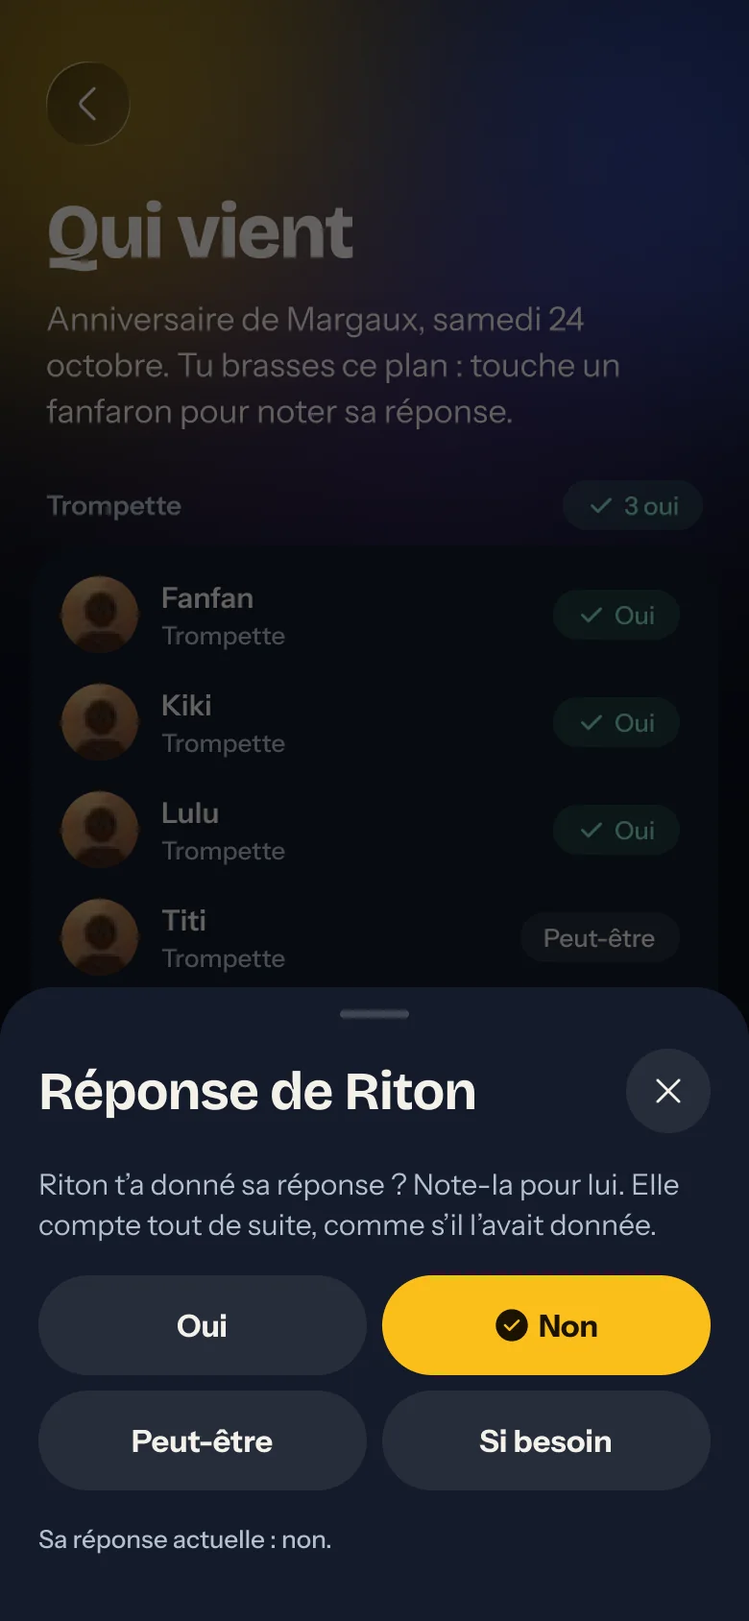
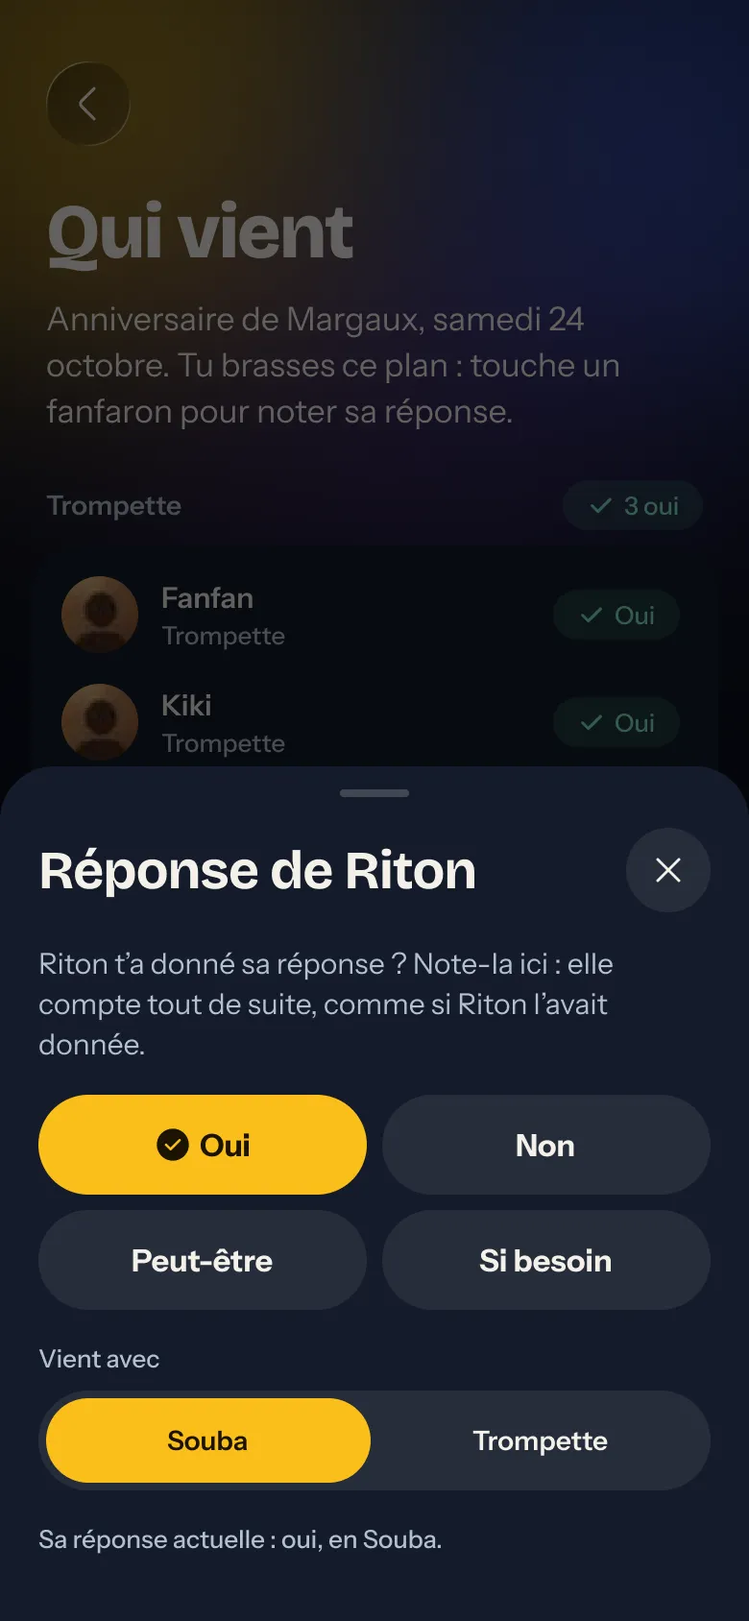
1.1.0: only a current member answers for another; the owner's wording; the guide and its pictures
- "Peut répondre pour moi" designates a current member only (ACTIVE or
  POWER_MEMBER), in PUT /api/me/proxy and in the import, as the profile
  offers (owner, 2026-11-08). Members v1.35.
- proxyMemberEmail in the full export is written in the model
  (members.md, export-import.md v1.5), with a test of the round trip and
  of the refusals.
- Status labels "Invité.e", "Actif.ve", "Parti.e"; the onboarding lead
  "ces infos ne sont visibles qu'après connexion".
- Changelog 1.1.0: fixes internal to the version removed, the Live mode
  as one change, the owner's wording; no-break spaces in French.
- Guide: the Live mode as redesigned; new pictures exported from Figma
  (Live, tempo, reading settings, too old a device, who comes with the
  power members folded, answering for someone, the card of the member
  who designated me, the profile).

Tests: npm test, 1214 passed, 3 timeouts of songs.spec (MP3, Clip,
Live repeat) that pass when run again; then api transfer and members,
android manage and onboarding.

Changed region(s): [[0.0, 0.4621, 1.0, 0.8934], [0.0615, 0.8318, 0.5846, 0.955]]

diff --git a/docs/guide/index.html b/docs/guide/index.html
@@ -80,7 +80,7 @@
           <div class="cell"><b>MIDI</b><span>Vue des pistes, qu'on peut masquer. On peut changer le tempo et boucler sur des mesures ou des repères.</span></div>
           <div class="cell"><b>PDF</b><span>La partition de ton instru s'affiche par défaut mais tu peux voir les autres. Tu peux les afficher en plein écran.</span></div>
           <div class="cell"><b>Clip</b><span>La version originale, depuis YouTube.</span></div>
-          <div class="cell"><b>Live</b><span>Lecture de partition en mode "karaoke" qui défile. Tu peux indiquer le tempo en tapant, et choisir la mesure de départ, ou lire avec le MIDI.</span></div>
+          <div class="cell"><b>Live</b><span>Ta partition défile en mode "karaoké". Le bouton de gauche règle le tempo, avec − et + ou en le tapant ; tu choisis aussi la mesure de départ. « Jouer avec le MIDI » lance le MIDI, et une tête de lecture suit la mesure jouée. Les réglages : le défilement (continu, saut rapide ou lent), la taille de la partition, un métronome visuel, et les contrôles masqués pendant la lecture. En paysage, la partition défile sur une seule ligne.</span></div>
         </div>
         <ul class="points">
           <li><span class="ico">•</span><div><b>Chercher et filtrer</b><span>Par nom, titre original ou interprète ; en liste ou grille. Les anciens morceaux ou les candidats sont visibles via un filtre.</span></div></li>
@@ -94,7 +94,10 @@
         <div class="strip">
           <figure><div class="mini"><div class="screen"><img src="img/song-midi.webp" alt="Le mode MIDI : une piste par instrument" width="780" height="1688" loading="lazy"></div></div><figcaption>MIDI : une piste par instrument, tempo et boucle</figcaption></figure>
           <figure><div class="mini"><div class="screen"><img src="img/song-pdf.webp" alt="Le mode PDF : ta partition" width="780" height="1688" loading="lazy"></div></div><figcaption>PDF : ta partition, les autres au choix</figcaption></figure>
-          <figure><div class="mini"><div class="screen"><img src="img/song-live.webp" alt="Le mode live : la partition défile, mesure et tempo en bas" width="780" height="1688" loading="lazy"></div></div><figcaption>Live : ta partie défile pendant qu'on joue</figcaption></figure>
+          <figure><div class="mini"><div class="screen"><img src="img/song-live.webp" alt="Le mode live prêt à démarrer : la mesure de départ, « Jouer avec le MIDI », le tempo, Lecture et Réglages" width="780" height="1688" loading="lazy"></div></div><figcaption>Live : ta partie défile pendant qu'on joue</figcaption></figure>
+          <figure><div class="mini"><div class="screen"><img src="img/song-live-tempo.webp" alt="Le volet du tempo : le régler avec − et +, ou le taper" width="780" height="1688" loading="lazy"></div></div><figcaption>Live : le tempo, réglé ou tapé</figcaption></figure>
+          <figure><div class="mini"><div class="screen"><img src="img/song-live-settings.webp" alt="Les réglages de lecture du mode live : défilement, taille, métronome, contrôles, pistes du MIDI" width="780" height="1688" loading="lazy"></div></div><figcaption>Live : les réglages de lecture</figcaption></figure>
+          <figure><div class="mini"><div class="screen"><img src="img/song-too-old.webp" alt="Sur un appareil trop ancien, le mode PDF propose de télécharger la partition" width="780" height="1688" loading="lazy"></div></div><figcaption>Un appareil ancien : la partition se télécharge</figcaption></figure>
         </div>
       </div>
     </section>
@@ -126,7 +129,8 @@
         </ul>
         <div class="strip">
           <figure><div class="mini"><div class="screen"><img src="img/gig-several-days.webp" alt="Un plan sur trois jours, avec ses présences" width="780" height="1688" loading="lazy"></div></div><figcaption>Un plan sur plusieurs jours : une réponse par présence</figcaption></figure>
-          <figure><div class="mini"><div class="screen"><img src="img/gig-who-comes.webp" alt="Qui vient, pupitre par pupitre" width="780" height="1688" loading="lazy"></div></div><figcaption>Qui vient, pupitre par pupitre</figcaption></figure>
+          <figure><div class="mini"><div class="screen"><img src="img/gig-who-comes.webp" alt="Qui vient, pupitre par pupitre, les power members sans réponse repliés à la fin" width="780" height="1688" loading="lazy"></div></div><figcaption>Qui vient, pupitre par pupitre</figcaption></figure>
+          <figure><div class="mini"><div class="screen"><img src="img/gig-proxy-card.webp" alt="Un plan avec la carte « Réponse de Léa » sous « Ta réponse »" width="780" height="1688" loading="lazy"></div></div><figcaption>Répondre pour qui t'a désigné</figcaption></figure>
         </div>
       </div>
     </section>
@@ -185,6 +189,7 @@
           <figure><div class="mini"><div class="screen"><img src="img/settings-notifications.webp" alt="Les notifications, par type, avec le canal : notification ou e-mail" width="780" height="1688" loading="lazy"></div></div><figcaption>Notifications : par type, notification ou e-mail</figcaption></figure>
           <figure><div class="mini"><div class="screen"><img src="img/settings-calendar.webp" alt="Le calendrier synchronisé" width="780" height="1688" loading="lazy"></div></div><figcaption>Calendrier : tes plans dans ton agenda</figcaption></figure>
           <figure><div class="mini"><div class="screen"><img src="img/settings-appearance.webp" alt="L'apparence : clair ou sombre, couleur d'accent" width="780" height="1688" loading="lazy"></div></div><figcaption>Apparence : clair ou sombre, dix couleurs</figcaption></figure>
+          <figure><div class="mini"><div class="screen"><img src="img/settings-profile-proxy.webp" alt="Mon profil : instrument secondaire et « Peut répondre pour moi »" width="780" height="1688" loading="lazy"></div></div><figcaption>Profil : instrument secondaire, qui répond pour toi</figcaption></figure>
         </div>
       </div>
     </section>

diff --git a/tests/api/transfer.spec.ts b/tests/api/transfer.spec.ts
@@ -646,3 +646,75 @@ test.describe('the checks added after the review', () => {
     ]);
   });
 });
+
+// 1.1.0 (model/export-import.md v1.5): who may answer for a member travels as
+// the email of the member designated, a current member other than oneself.
+test.describe('"Peut répondre pour moi" in an export', () => {
+  test('travels as proxyMemberEmail and comes back; an invited member, oneself or a stranger is refused', async ({
+    playwright,
+  }) => {
+    sql(
+      "UPDATE member SET proxyMemberId = (SELECT id FROM (SELECT id FROM member WHERE nickname = 'Momo') AS m) WHERE nickname = 'Zaza'",
+    );
+    const desk = await jibe(playwright);
+    const exported = readZip(
+      await (
+        await desk.post('/api/transfer/export', {
+          data: { password: admin.password, parts: ['settings', 'members'] },
+        })
+      ).body(),
+    );
+    const data = JSON.parse(exported.get('members/data.json')?.toString() ?? '{}');
+    const of = (nickname: string) =>
+      data.member.find((one: { nickname: string }) => one.nickname === nickname);
+    expect(of('Zaza').proxyMemberEmail).toBe(email('Momo'));
+    expect(of('Momo').proxyMemberEmail ?? null).toBeNull();
+
+    // Loaded again after it was emptied: the link comes back.
+    sql('UPDATE member SET proxyMemberId = NULL');
+    const name = await upload(desk, makeZip(Object.fromEntries(exported)), 'export.zip');
+    expect((await load(desk, name, ['settings', 'members'])).status()).toBe(200);
+    expect(
+      sql(
+        "SELECT p.nickname FROM member m JOIN member p ON p.id = m.proxyMemberId WHERE m.nickname = 'Zaza'",
+      ),
+    ).toBe('Momo');
+
+    const refusedWith = async (
+      change: (members: Record<string, unknown>[]) => void,
+      file: string,
+    ) => {
+      const files = new Map(exported);
+      const copy = structuredClone(data);
+      change(copy.member);
+      files.set('members/data.json', jsonOf(copy));
+      const fresh = await jibe(playwright);
+      return (await read(fresh, await upload(fresh, makeZip(Object.fromEntries(files)), file)))
+        .problems;
+    };
+    const zazaIn = (members: Record<string, unknown>[]) =>
+      members.find((one) => one.nickname === 'Zaza') as Record<string, unknown>;
+    const momoIn = (members: Record<string, unknown>[]) =>
+      members.find((one) => one.nickname === 'Momo') as Record<string, unknown>;
+
+    const invited = await refusedWith((members) => {
+      momoIn(members).status = 'INVITED';
+      delete momoIn(members).passwordHash;
+    }, 'invited.zip');
+    const oneself = await refusedWith((members) => {
+      zazaIn(members).proxyMemberEmail = email('Zaza');
+    }, 'oneself.zip');
+    const stranger = await refusedWith((members) => {
+      zazaIn(members).proxyMemberEmail = 'personne@example.org';
+    }, 'stranger.zip');
+    for (const [problems, value] of [
+      [invited, email('Momo')],
+      [oneself, email('Zaza')],
+      [stranger, 'personne@example.org'],
+    ] as const) {
+      expect(problems).toEqual([
+        expect.objectContaining({ column: 'proxyMemberEmail', error: 'unknownMember', value }),
+      ]);
+    }
+  });
+});

diff --git a/docs/guide/managers.html b/docs/guide/managers.html
@@ -58,7 +58,7 @@
         <p class="intro">Inviter, suivre les statuts, gérer les départs. Depuis Réglages › Gérer les fanfarons.</p>
         <ul class="points">
           <li><span class="ico">1</span><div><b>Inviter</b><span>Remplis ce que tu sais : surnom, prénom, instrument, e-mail. L'app envoie l'invitation par e-mail, et te donne le lien à copier au cas où. Il marche une fois, 7 jours.</span></div></li>
-          <li><span class="ico">2</span><div><b>Les statuts</b><span>Invité · Actif · Power member (pas de rappels) · Parti · Invitation expirée.</span></div></li>
+          <li><span class="ico">2</span><div><b>Les statuts</b><span>Invité.e · Actif.ve · Power member (pas de rappels) · Parti.e · Invitation expirée.</span></div></li>
           <li><span class="ico">3</span><div><b>Mot de passe perdu</b><span>« Créer un lien de mot de passe » : un lien à usage unique pour qu'il en choisisse un nouveau.</span></div></li>
           <li><span class="ico">4</span><div><b>Noter le départ</b><span>Coupe l'accès tout de suite, efface téléphone, adresse, photo et rôles. Le nom et les réponses aux plans passés restent. Un retour reste possible.</span></div></li>
           <li><span class="ico">5</span><div><b>Instrument secondaire</b><span>Sur la fiche, comme l'instrument : celui avec lequel ce compte peut venir à un plan, dans un autre pupitre. « Peut répondre pour moi » ne se règle que dans son propre profil.</span></div></li>
@@ -114,7 +114,7 @@
         </ul>
         <div class="strip">
           <figure><div class="mini"><div class="screen"><img src="img/gig-status.webp" alt="Changer le statut d'un plan" width="780" height="1688" loading="lazy"></div></div><figcaption>Le statut du plan</figcaption></figure>
-          <figure><div class="mini"><div class="screen"><img src="img/gig-answer-for-someone.webp" alt="Noter la réponse d'un fanfaron à sa place" width="780" height="1688" loading="lazy"></div></div><figcaption>Noter la réponse d'un fanfaron</figcaption></figure>
+          <figure><div class="mini"><div class="screen"><img src="img/gig-answer-for-someone.webp" alt="Noter la réponse d'un fanfaron à sa place, avec l'instrument choisi pour le plan" width="780" height="1688" loading="lazy"></div></div><figcaption>Noter la réponse d'un fanfaron, et son instrument</figcaption></figure>
         </div>
       </div>
     </section>

diff --git a/tests/manage.spec.ts b/tests/manage.spec.ts
@@ -96,7 +96,7 @@ test.describe('the list', () => {
       'Tonton',
       'Zaza',
     ]);
-    await expect(rows(page).filter({ hasText: 'Bouboule' })).toContainText('Parti');
+    await expect(rows(page).filter({ hasText: 'Bouboule' })).toContainText('Parti.e');
     await expect(page.getByText('1 invitation en attente, 1 départ.')).toBeVisible();
   });
 
@@ -122,10 +122,10 @@ test.describe('the list', () => {
       'Rôles',
     ]);
     const line = (nickname: string) => table.getByRole('row').filter({ hasText: nickname });
-    await expect(line('Zaza')).toContainText('Actif');
+    await expect(line('Zaza')).toContainText('Actif.ve');
     await expect(line('Tonton')).toContainText('Power member');
     await expect(line('Kiki')).toContainText('Invitation expirée');
-    await expect(line('Bouboule')).toContainText('Parti');
+    await expect(line('Bouboule')).toContainText('Parti.e');
     await expect(line('Momo')).toContainText('Gère les fanfarons');
     await expect(line('Jibé')).toContainText('Sax Ténor');
     // The list of a phone is not there twice.
@@ -185,7 +185,7 @@ test.describe('an invitation', () => {
     await other.close();
 
     await panel.getByRole('button', { name: 'Fermer' }).click();
-    await expect(rows(page).filter({ hasText: 'Riton' })).toContainText('Invité');
+    await expect(rows(page).filter({ hasText: 'Riton' })).toContainText('Invité.e');
 
     // Shown once: neither a reload nor the history of the browser brings it back.
     await page.reload();

diff --git a/tests/api/members.spec.ts b/tests/api/members.spec.ts
@@ -728,7 +728,9 @@ test.describe('secondary instrument and "Peut répondre pour moi" (1.1.0)', () =
     playwright,
   }) => {
     const zaza = await deviceOf(playwright, email('Zaza'));
-    for (const nickname of ['Zaza', 'Lolo']) {
+    // Neither oneself, nor a member who left, nor an invited member: the
+    // profile offers current members only (owner, 2026-11-08).
+    for (const nickname of ['Zaza', 'Lolo', 'Titi']) {
       const refused = await zaza.put('/api/me/proxy', {
         data: { proxyMemberId: memberId(nickname) },
       });
@@ -738,9 +740,6 @@ test.describe('secondary instrument and "Peut répondre pour moi" (1.1.0)', () =
       422,
     );
 
-    // An invited member may be designated: they answer once in.
-    const titi = await zaza.put('/api/me/proxy', { data: { proxyMemberId: memberId('Titi') } });
-    expect(titi.status()).toBe(200);
     const popo = await zaza.put('/api/me/proxy', { data: { proxyMemberId: memberId('Popo') } });
     expect((await popo.json()).proxyMemberId).toBe(memberId('Popo'));
 

diff --git a/api/src/Access/UpdateProxyAction.php b/api/src/Access/UpdateProxyAction.php
@@ -29,11 +29,11 @@ final class UpdateProxyAction
         $proxyId = Input::from($request, ProxyInput::class)->proxyMemberId;
         $me = CurrentMember::of($request);
 
-        // A current member other than oneself; an invited one too, who
-        // answers once in.
+        // A current member other than oneself: the profile offers no one
+        // else, a member not seeing the invited ones (owner, 2026-11-08).
         if ($proxyId !== null) {
             $isAllowed = $proxyId !== $me->id && (int) $this->database->fetchOne(
-                "SELECT COUNT(*) FROM member WHERE id = ? AND status IN ('INVITED', " . AccessRules::SIGN_IN_STATUSES_SQL . ')',
+                'SELECT COUNT(*) FROM member WHERE id = ? AND status IN (' . AccessRules::SIGN_IN_STATUSES_SQL . ')',
                 [$proxyId],
             ) === 1;
             if (!$isAllowed) {

diff --git a/api/src/Transfer/ExportImport.php b/api/src/Transfer/ExportImport.php
@@ -493,9 +493,9 @@ final class ExportImport
             }
             $proxyEmail = is_string($member['proxyMemberEmail'] ?? null) ? mb_strtolower(trim($member['proxyMemberEmail'])) : null;
             $proxyId = $proxyEmail === null ? null : $this->memberId($proxyEmail);
-            // As the profile allows it: an invited or current member.
+            // As the profile allows it: a current member.
             $isAllowed = $proxyId !== null && $proxyId !== $id && $this->database->fetchOne(
-                "SELECT 1 FROM member WHERE id = ? AND status IN ('INVITED', " . AccessRules::SIGN_IN_STATUSES_SQL . ')',
+                'SELECT 1 FROM member WHERE id = ? AND status IN (' . AccessRules::SIGN_IN_STATUSES_SQL . ')',
                 [$proxyId],
             ) !== false;
             if ($proxyEmail !== null && !$isAllowed) {

diff --git a/model/members.md b/model/members.md
@@ -1,5 +1,6 @@
 # Business dictionary — Members domain
 
+> v1.35 — 2026-11-08 · For 1.1.0, decided by the owner · No change to the tables · Only a current member can be designated by "Peut répondre pour moi", never an invited one; `proxyMemberId` travels in the full export, as `proxyMemberEmail`
 > v1.34 — 2026-11-07 · For 1.1.0, decided by the owner · Model: `members.dbml` v1.32 · Migration: `020_secondaryInstrumentAndProxy.sql` · A secondary instrument (`secondaryInstrumentId`), brought to a gig when the member says so; "Peut répondre pour moi" (`proxyMemberId`), one member who may answer gigs for this member
 > v1.33 — 2026-11-02 · For 1.1.0, decided by the owner · No change to the tables · A changed email of an invited member cancels their link, and with a mail server sends a new invitation to the new address
 > v1.32 — 2026-11-01 · For 1.1.0, to validate by the owner · No change to the tables · Sending the invitation again shows the new link once, as its creation does (issue #73); a link without email can be copied with a mail server too; an invited member is edited like a current one, and a changed email offers to send the invitation again (issue #72)
@@ -115,7 +116,7 @@ A member is never deleted once `ACTIVE`: their answers to past gigs stay. The em
 - **An instrument held as secondary counts as played.** The rule "An instrument played by a member cannot be deleted" (entry 2) counts the members who hold it as secondary with those who play it, in the same number: "1 fanfaron en joue". Changing the instrument of a member to the one they held as secondary empties the secondary instrument.
 - **Answering for the member who designated me** (1.1.0, decided on 2026-11-07). A member may let one other member note their answers to gigs: a couple, a parent and a child in the band. The member chooses that person alone, in their profile, under "Présences": "Peut répondre pour moi", with the choice "Personne" first, among the current members other than themselves. The designated member sees the gigs as before, and finds under their own answer the answer of the member who designated them (Gigs domain). Nothing else changes: the reminders still go to the member, the list of gigs still shows the member's own answer, no notification is sent to either of them.
 - **Who sees it.** The member and the designated member only. The directory, the member sheets and the management screens never show it: it says something of a relationship. The designated member does not choose to be designated, and is not told: they simply find the second answer under theirs.
-- **When one of them leaves.** Marking a member as gone empties their `proxyMemberId`, and empties it on every member who had designated them. A `POWER_MEMBER` may designate and be designated like an `ACTIVE` member; an invited member (no password yet) may be designated, and answers once they are in.
+- **When one of them leaves.** Marking a member as gone empties their `proxyMemberId`, and empties it on every member who had designated them. A `POWER_MEMBER` may designate and be designated like an `ACTIVE` member. An invited member (no password yet) cannot be designated: a member does not see the invited members, so the profile offers current members only (owner, 2026-11-08).
 - **Notification settings.** See "Notification settings" below. **Calendar address.** See "Calendar address" below.
 - **Accessibility before sign-in.** Every screen shown before sign-in (sign-in, forgotten password, the screen a password link opens, the screens of an invitation) carries a button that opens the accessibility options. The button is always visible, reachable from the keyboard and named for screen readers. Nobody is asked to set the options: they are offered, never a step to go through. Chosen before sign-in, they are kept on the device only, in the storage of the browser, and are sent to no one; they apply on that device until a member signs in on it, and from then on the options of the account apply, except the text size, which stays the one of the device. Chosen during an invitation, they are saved to the account when the invitation is completed, except the text size, which stays on the device.
 
@@ -170,7 +171,7 @@ Exporting the list of members asks for the password again.
 - `mobilePhone`, `streetAddress`, `postalCode`, `city`, `countryCode`, `addressInstructions`: directory of the band, so that members can reach and visit each other. Given by the member, optional, seen by every signed-in member, erased when the member leaves. Encrypted.
 - `photoPath`: recognising each other in the band. Given by the member or by someone who manages members, optional, seen by signed-in members only, never public, erased when the member leaves. It travels in an export, with the other data of the member, behind the password asked again (decided with the owner on 2026-10-24, `export-import.md`).
 - Preferences (language, appearance, theme, accessibility options, notification settings) are seen by the member only. Accessibility options can hint at a disability: they are never shown to anyone else, an admin included, and never appear in an export. The text size is not even known to the server: it stays on the device.
-- `proxyMemberId`: purpose, answering gigs together. Seen by the member and the designated member only. Erased when either leaves. Never exported in the directory. Not encrypted: a reference to a member.
+- `proxyMemberId`: purpose, answering gigs together. Seen by the member and the designated member only. Erased when either leaves. Never in the directory. It travels in the full export of the band, as `proxyMemberEmail`, with the other fields of the member, behind the password asked again (owner, 2026-11-08, `export-import.md`). Not encrypted: a reference to a member.
 - `calendarToken`: the personal calendar address of the member, so that a calendar app can subscribe to the gigs they come to. Created only when the member asks for it, seen by the member only, never in an export, erased when the member leaves. Whoever holds the address reads the gigs this member said they come to (name, dates, place), nothing else.
 - None of these fields is ever written to a log, and neither is the calendar address of a request.
 

diff --git a/CHANGELOG.md b/CHANGELOG.md
@@ -9,8 +9,6 @@ What changes in the app, version after version. This file is written by
 
 - Sending an invitation again shows a confirmation panel, and the link to pass on by another means if the email lands in spam. “Copier un lien d’invitation” gives a link without any email.
 - When editing a song, “Ne pas prévenir la fanfare” saves its files without any notification, for a technical correction.
-- On a phone held sideways, the Live mode shows the score as one line that scrolls to the left, the controls at the right.
-- Reading settings in the Live mode, kept on the device: a continuous scrolling or a slower jump, the size of the score, a visual metronome with the first beat marked, and controls hidden while playing.
 - A gig with an address and no GPS coordinates shows its map: the server finds where the address is (OpenStreetMap), the form says so under the field, and coordinates typed by hand still win.
 - From a song, “Toutes les partitions” downloads every part in one .zip.
 - A member can hold a secondary instrument and say which one they bring to a gig; the gig counts them in that section.
@@ -18,26 +16,18 @@ What changes in the app, version after version. This file is written by
 
 ### Changed
 
-- On a tablet or a computer, the Live mode shows the score as one column at the width of the screen, never in two or three columns side by side.
-- The tempo of the Live mode is set in one place: a tap on the tempo opens a sheet to set it with − and +, or to tap it.
-- Playing the Live mode with the MIDI is a switch beside Play; the tracks of the MIDI are set in the new reading settings, and a line shows where the MIDI is in the measure.
-- The visual metronome is on by default when the Live mode plays with the MIDI, and off otherwise, until the member chooses.
+- The Live mode was redesigned: “Jouer avec le MIDI” is easier to see, written in full. The button at the left opens a panel with both the manual tempo and the tap. A settings screen chooses how the lines jump and whether a visual metronome shows. When the MIDI plays, a playhead moves at the tempo of the song. The size of the score can be adjusted. The controls can be made smaller to leave more room to the score. In landscape the score scrolls as one continuous line; on a tablet or a computer it is one column at the width of the screen.
 - On a device older than the app (before iOS 16.4), the PDF, MIDI and Live modes say so and offer to download the part, instead of blaming the network.
-- A power member who has not answered is no longer waited for: left out of the list of who comes and of its counts; who notes the answers finds them in a folded group at the end.
-- The interface no longer speaks of a member in the masculine.
+- Only the power members who answered show in the attendance, whatever their answer. Who manages gigs finds those who did not answer in a folded group at the end, to keep answering for them.
+- The texts of the interface were rewritten so as not to show a gender (epicene wording).
 
 ### Fixed
 
 - Fixed the wrong key of a MuseScore file edited by a script (e.g. “8 bit”).
 - When the first measure has no tempo, the tempo of a song is the one where the music starts; the MIDI player and the Live mode no longer play it too fast.
-- Songs imported before 1.1.0 whose MuseScore file was edited by a script may need their file dropped again to fix the MIDI.
 - The MIDI player plays on a computer whose sound takes time to start (a Bluetooth headset, Safari, Windows). When the sound of the device does not start, the app says so and offers to try again, instead of blaming the network.
 - The record of an invited member can be edited, its email included; a changed email cancels the former invitation link and sends a new one to the new address.
 - In the list of songs, the filters “Proposés” and “Abandonnés” show those songs alone, one filter at a time.
-- In the Live mode with the MIDI, the line that shows where the MIDI is moves smoothly, on the note being heard, even with a Bluetooth headset.
-- The beat being played of the visual metronome no longer pushes the others aside.
-- In the Live mode, the score no longer stands still while it plays after the phone turned or a sheet closed.
-- On a phone in landscape, the bar of the Live mode is wide enough for its tiles, beside the notch too.
 - Scores show on browsers a year or two old (iOS 17 and 18 among them): they get a version of the PDF reader written for them.
 - On iPhone and iPad, downloading a file goes through the share sheet (“Enregistrer dans Fichiers”, AirDrop…) instead of opening it in the app with no way back.
 

diff --git a/model/export-import.md b/model/export-import.md
@@ -1,5 +1,6 @@
 # Export and import of the data — format 1
 
+> v1.5 — 2026-11-08 · For 1.1.0, decided by the owner · No change to the format · The secondary instrument, the member designated by "Peut répondre pour moi" and the instrument brought to a gig travel with the members and the answers
 > v1.4 — 2026-10-24 · Validated by the owner, for 0.4.0 · No change to the tables · Written as built: a mobile number without `+` is refused; the files are written in their place and deleted if the load fails; the admin who imports must be able to sign in with the file; a load invites only the members it adds and cancels the link of a member whose roles change; the size of each file of the zip is checked before it is read; the browser of the admin produces the MIDI file and the MusicXML of the MuseScore files of a reprise
 > v1.3 — 2026-10-24 · Validated by the owner, for 0.4.0 · The reprise: loading members, songs, gigs, slots and answers from spreadsheets (issue #43); an import that adds members without a password sends their invitations (issue #50); `band.setlistTargetMinutes` travels with the settings
 > v1.2 — 2026-10-18 · Validated · The new fields of a song and of the band travel with them (0.3.0); the encrypted fields of a member travel in clear in the zip (0.3.1, Members v1.23)
@@ -64,6 +65,7 @@ A reference to a member is its email, to a song its name, to an instrument its n
 - **Encrypted fields** (Members domain, "Encryption") are written in clear in the file and encrypted again with the key of the server that imports them; `emailHash` is not exported, it is computed again.
 - **Passwords** travel as their hashes (`passwordHash`, PHP `password_hash()`): they are never readable, and the members keep their passwords. A member who was invited and has not set one arrives as invited, without a pending link: the admin sends a new invitation.
 - **Positions** (`section.position`, `instrument.position`, `costume.position`, …) are taken from the file.
+- **Who may answer for a member** (`member.proxyMemberId`, 1.1.0, owner 2026-11-08) travels as `proxyMemberEmail`, the email of the member designated. It is read once every member of the file is in, so that the designated member may come later in the file. It must be a current member (`ACTIVE` or `POWER_MEMBER`) other than the member; otherwise the import refuses, like any reference that cannot be found. The secondary instrument travels as `secondaryInstrument`, by its name, and the instrument a member brings to a gig as `instrument` on the answer.
 
 ## The zip
 

diff --git a/docs/architecture.md b/docs/architecture.md
@@ -388,7 +388,7 @@ All of it is in `api/src/Access/`, and the rules come from [model/members.md](..
 | `GET /api/sections` | Signed in | Sections with their pictogram, and their instruments with the number of members who play each |
 | `POST`, `PUT`, `DELETE` on `/api/sections` and `/api/instruments` | `MANAGE_SECTIONS` | Adds, renames, moves, deletes; sets the pictogram of a section, one of `SectionIcons::AVAILABLE` |
 | `PUT /api/me/preferences`, `PUT /api/me/password` | Oneself | Preferences; password, with the current one |
-| `PUT /api/me/proxy` | Oneself | "Peut répondre pour moi" (1.1.0, `UpdateProxyAction`): `{ proxyMemberId }`, a current or invited member other than oneself, or null. Answered with the profile |
+| `PUT /api/me/proxy` | Oneself | "Peut répondre pour moi" (1.1.0, `UpdateProxyAction`): `{ proxyMemberId }`, a current member (`ACTIVE` or `POWER_MEMBER`) other than oneself, or null. Answered with the profile |
 | `GET`, `PUT /api/me/notifications` | Oneself | The seven notification settings of the account, all at once, each `OFF`, `PUSH`, `EMAIL` or `PUSH_AND_EMAIL` (`NotificationsAction`); the reminders never `OFF`, the live setlist never by email. Not in `/api/me`: see below |
 | `GET`, `POST`, `PUT /api/me/calendar` | Oneself | The calendar token of the member: read it, create it when there is none, replace it (`CalendarAction`). Not in `/api/me` either |
 | `GET /api/calendar/{token}.ics` | Anyone holding the address | The calendar feed of a member (`CalendarFeedAction`, `CalendarFeed`); see "The calendar feed" |
